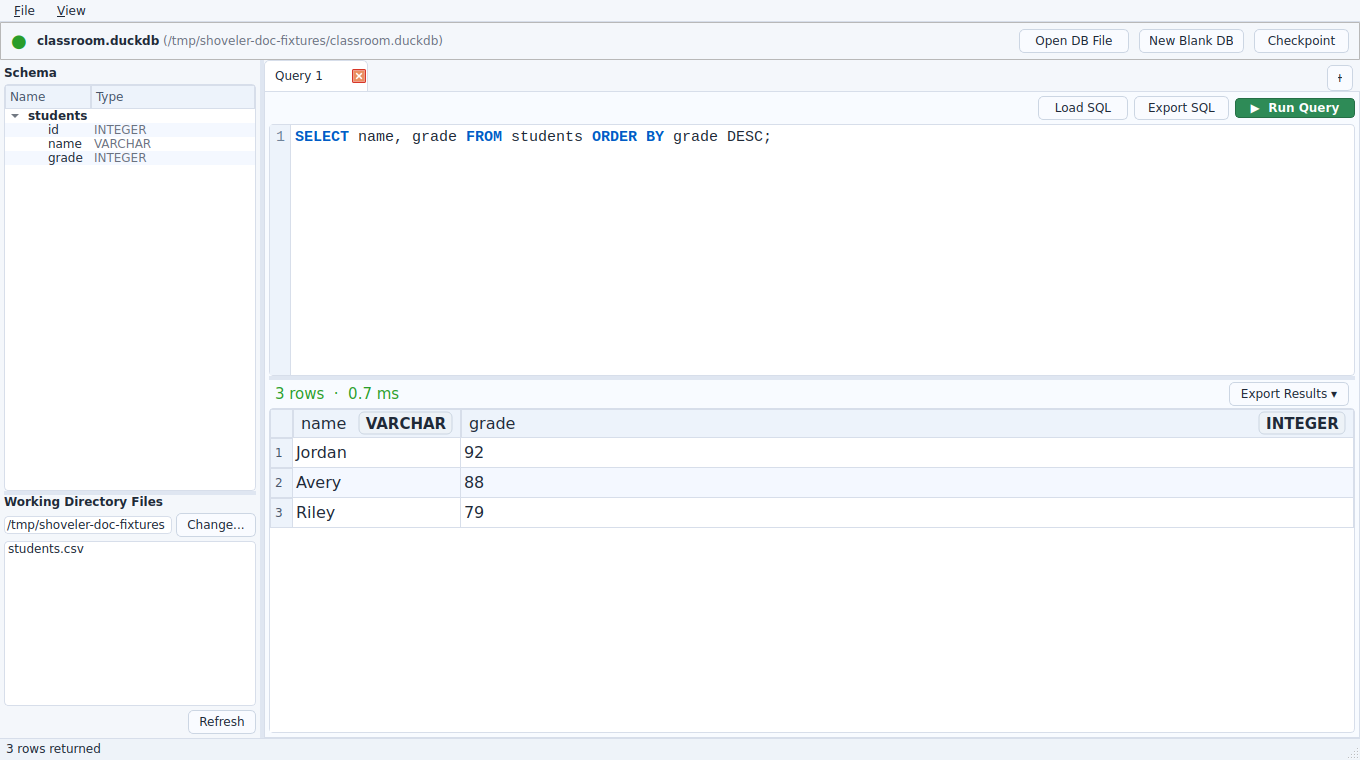
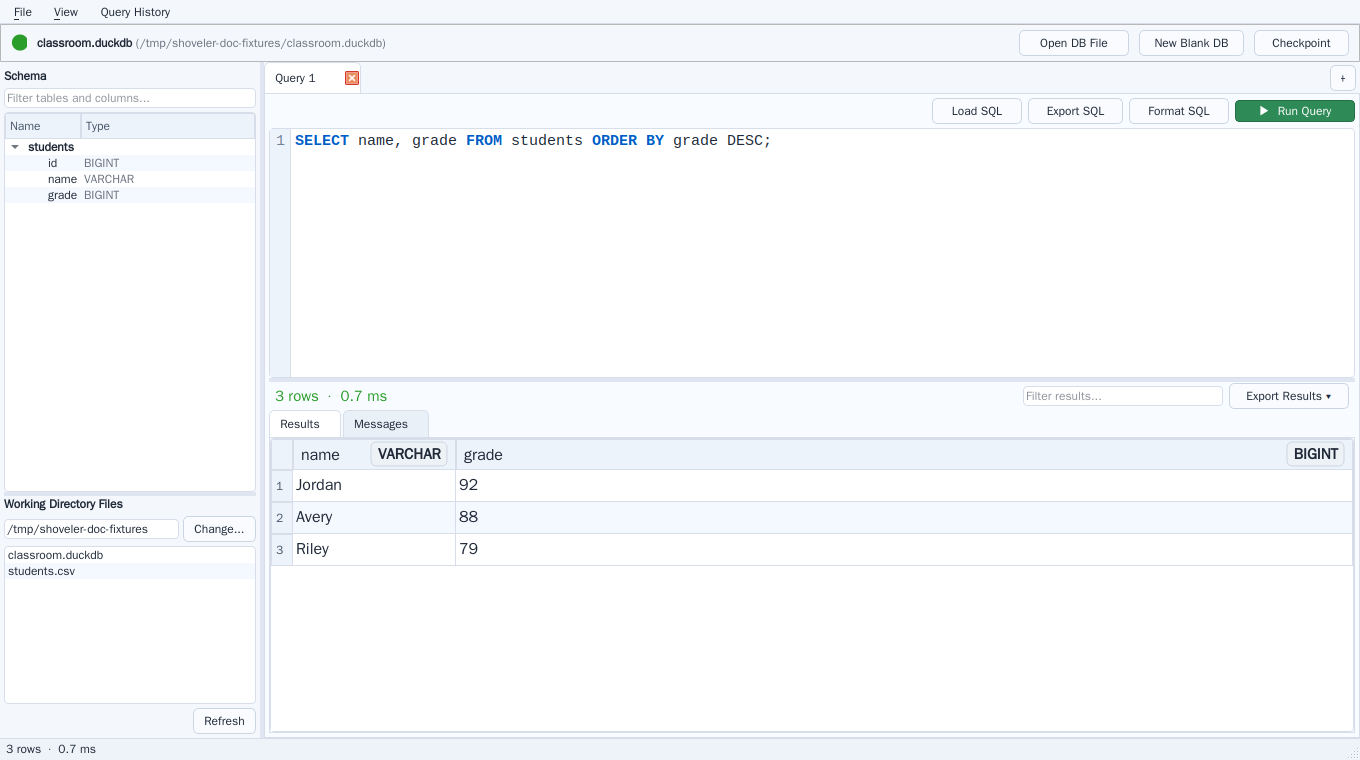
Add Messages tab to results panel for selectable errors

diff --git a/src/shoveler/results_panel.py b/src/shoveler/results_panel.py
@@ -1,6 +1,7 @@
 import csv
 from datetime import date, datetime, time as time_type, timedelta
 from decimal import Decimal
+from html import escape
 
 from PySide6.QtWidgets import (
     QApplication,
@@ -8,6 +9,8 @@ from PySide6.QtWidgets import (
     QVBoxLayout,
     QHBoxLayout,
     QTableWidget,
+    QTabWidget,
+    QTextEdit,
     QTableWidgetItem,
     QLabel,
     QPushButton,
@@ -276,7 +279,17 @@ class ResultsPanel(QWidget):
         self._header.sectionClicked.connect(self._on_header_clicked)
         self._sort_column = -1
         self._sort_order = Qt.SortOrder.AscendingOrder
-        layout.addWidget(self.table)
+
+        # ── Messages ────────────────────────────────────────────────────────
+        self._messages: list[tuple[str, str]] = []
+        self.messages_view = QTextEdit()
+        self.messages_view.setReadOnly(True)
+        self.messages_view.setLineWrapMode(QTextEdit.LineWrapMode.WidgetWidth)
+
+        self.tabs = QTabWidget()
+        self.tabs.addTab(self.table, "Results")
+        self.tabs.addTab(self.messages_view, "Messages")
+        layout.addWidget(self.tabs)
         self.set_font_point_size(self._DEFAULT_FONT_SIZE)
         self.set_theme("light")
 
@@ -285,6 +298,7 @@ class ResultsPanel(QWidget):
         self._null_colour = get_results_null_colour(self._theme)
         self._status_colours = get_results_status_colours(self._theme)
         self._header.set_theme(self._theme)
+        self._render_messages()
 
     def font_point_size(self) -> int:
         return self._font_point_size
@@ -301,6 +315,7 @@ class ResultsPanel(QWidget):
         status_font = QFont(self.status_label.font())
         status_font.setPointSize(max(8, point_size - 1))
         self.status_label.setFont(status_font)
+        self.messages_view.setFont(table_font)
 
         row_height = max(22, int(QFontMetrics(table_font).height() * 1.6))
         self.table.verticalHeader().setDefaultSectionSize(row_height)
@@ -321,7 +336,10 @@ class ResultsPanel(QWidget):
         self._populate_table(columns, rows)
         self._apply_filter(self.filter_input.text())
         word = "row" if len(rows) == 1 else "rows"
-        self._set_status(f"{len(rows)} {word}  ·  {elapsed * 1000:.1f} ms", "ok")
+        text = f"{len(rows)} {word}  ·  {elapsed * 1000:.1f} ms"
+        self._set_status(text, "ok")
+        self._add_message(text, "ok")
+        self.tabs.setCurrentWidget(self.table)
         self.export_btn.setEnabled(True)
 
     def show_error(self, error: str, elapsed: float):
@@ -330,7 +348,9 @@ class ResultsPanel(QWidget):
         self._header.set_column_types([])
         self.table.setRowCount(0)
         self.table.setColumnCount(0)
-        self._set_status(f"Error  ·  {error}", "error")
+        self._set_status("Error  ·  see Messages tab", "error")
+        self._add_message(f"Error  ·  {error}", "error")
+        self.tabs.setCurrentWidget(self.messages_view)
         self.export_btn.setEnabled(False)
 
     def show_success_no_results(self, elapsed: float):
@@ -339,7 +359,10 @@ class ResultsPanel(QWidget):
         self._header.set_column_types([])
         self.table.setRowCount(0)
         self.table.setColumnCount(0)
-        self._set_status(f"OK  ·  {elapsed * 1000:.1f} ms", "ok")
+        text = f"OK  ·  {elapsed * 1000:.1f} ms"
+        self._set_status(text, "ok")
+        self._add_message(text, "ok")
+        self.tabs.setCurrentWidget(self.table)
         self.export_btn.setEnabled(False)
 
     # ── Internals ───────────────────────────────────────────────────────────
@@ -348,6 +371,25 @@ class ResultsPanel(QWidget):
         colour = self._status_colours.get(kind, self._status_colours["neutral"])
         self.status_label.setText(text)
         self.status_label.setStyleSheet(f"color: {colour};")
+
+    _MAX_MESSAGES = 200
+
+    def _add_message(self, text: str, kind: str):
+        self._messages.append((text, kind))
+        del self._messages[: -self._MAX_MESSAGES]
+        self._render_messages()
+
+    def _render_messages(self):
+        # Only the newest message keeps its status colour; older ones are neutral.
+        neutral = self._status_colours["neutral"]
+        parts = []
+        last = len(self._messages) - 1
+        for index, (text, kind) in enumerate(self._messages):
+            colour = self._status_colours.get(kind, neutral) if index == last else neutral
+            body = escape(text).replace("\n", "<br>")
+            parts.append(f'<p style="color:{colour}; white-space:pre-wrap;">{body}</p>')
+        self.messages_view.setHtml("".join(reversed(parts)))
+        self.messages_view.moveCursor(self.messages_view.textCursor().MoveOperation.Start)
 
     def _populate_table(self, columns: list, rows: list):
         self.table.setColumnCount(len(columns))

diff --git a/docs/troubleshooting.md b/docs/troubleshooting.md
@@ -21,13 +21,13 @@ python -c "import importlib.metadata as m; print(m.version('shoveler'))"
 
 ## Query runs but no data appears
 
-1. Check the results panel for error messages.
+1. Check the **Messages** tab in the results panel. It opens automatically when a query fails, and the text can be selected and copied. Older messages appear in grey; the newest is at the top. It switches back to **Results** after a successful query.
 2. Confirm you are querying the expected table and database mode.
 3. If using in-memory mode, verify you did not restart without saving.
 
-![A failed query with its error displayed in the results panel](images/query-error.png)
+![A failed query with its error shown in the Messages tab](images/query-error.png)
 
-*When a query fails, Shoveler shows the error in the results panel.*
+*When a query fails, Shoveler opens the Messages tab and shows the full error.*
 
 ## Checkpoint button is disabled
 

diff --git a/README.md b/README.md
@@ -12,7 +12,7 @@ Named after the [Australasian shoveler](https://en.wikipedia.org/wiki/Australasi
 
 | File-backed database | Query error |
 | --- | --- |
-| ![Shoveler connected to a file-backed database](docs/images/file-backed.png) | ![Shoveler displaying a query error](docs/images/query-error.png) |
+| ![Shoveler connected to a file-backed database](docs/images/file-backed.png) | ![Shoveler showing a query error in the Messages tab](docs/images/query-error.png) |
 
 ## Recommended for students and teachers: download a binary
 
